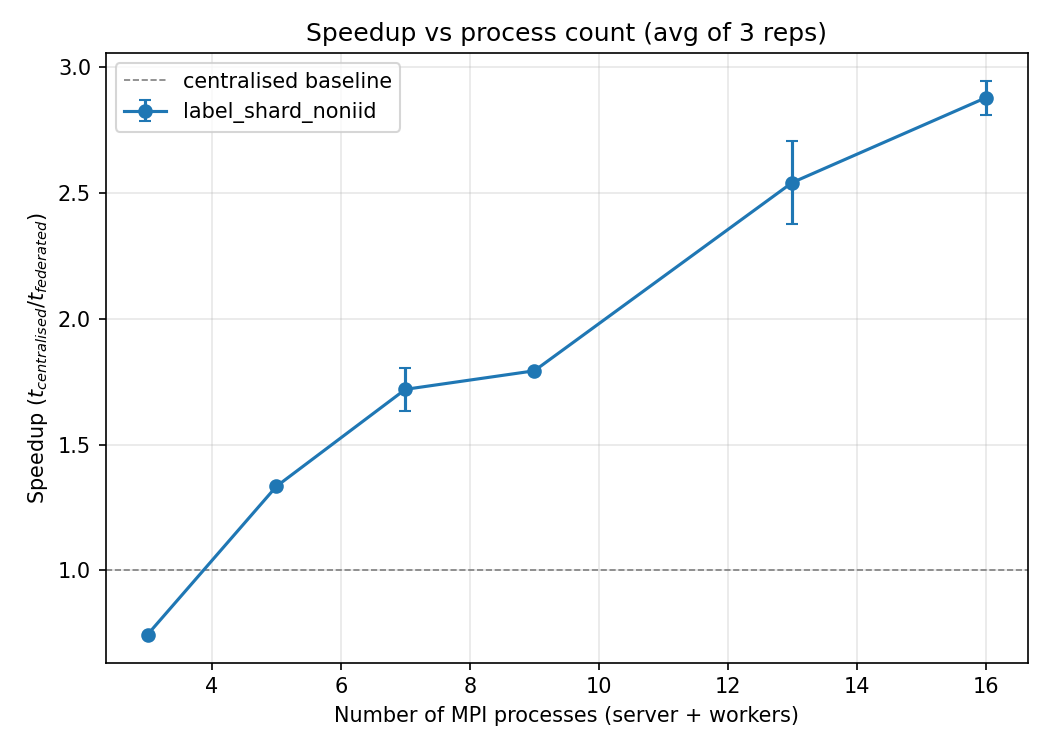
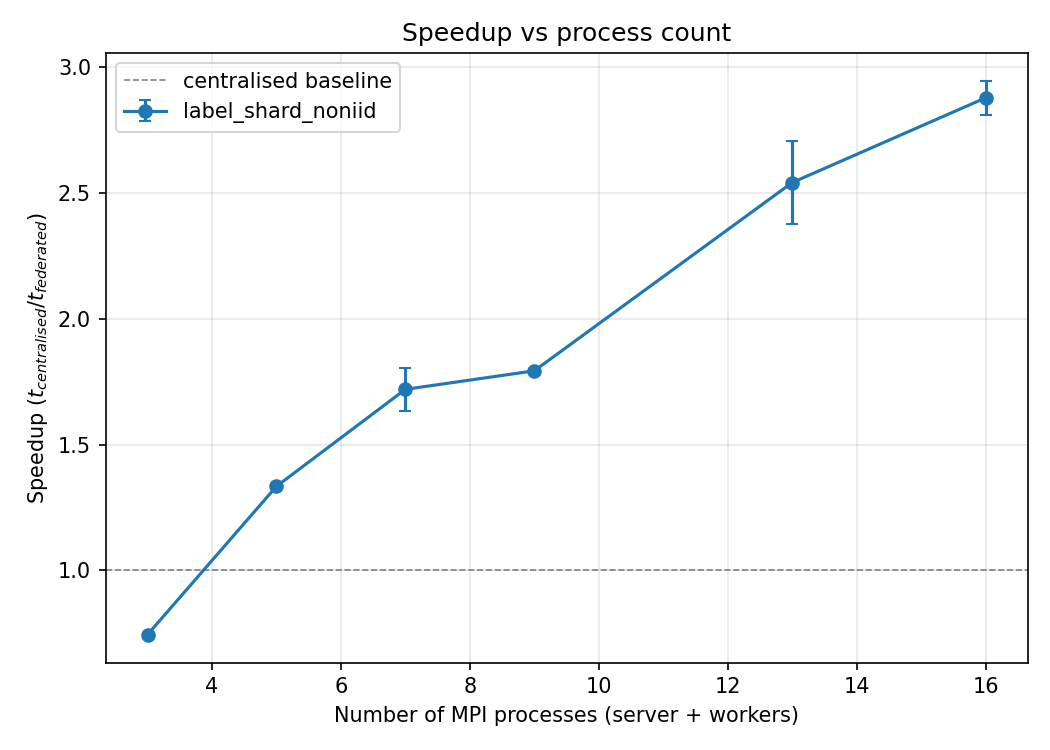
Updated grpahs

Changed region(s): [[0.2743, 0.0307, 0.7924, 0.0613]]

diff --git a/problem1/federated_clustering_mpi/bench/plot_one_node.py b/problem1/federated_clustering_mpi/bench/plot_one_node.py
@@ -152,6 +152,15 @@ def avg_curves(curves):
     return epochs, train_loss, train_acc, test_acc
 
 
+def dist_label(dist: str) -> str:
+    labels = {
+        "round_robin_iid": "IID round robin",
+        "label_shard_noniid": "label shard non-IID",
+        "label_shard_noniid_rotate_feature_skew": "label shard + rotation",
+    }
+    return labels.get(dist, dist)
+
+
 def closest_centralised(ts: datetime, centralised_rows):
     """Pick the centralised summary row with the nearest timestamp."""
     best = None
@@ -172,8 +181,18 @@ def main():
                     help="Read metrics/sweep_<id>/summary_*.csv.")
     ap.add_argument("--reps", type=int, default=3)
     ap.add_argument("--nps", type=int, nargs="+", required=True)
+    ap.add_argument("--curve-nps", type=int, nargs="+",
+                    help="Process counts to show on accuracy-curve plots. "
+                         "Defaults to all --nps values.")
     ap.add_argument("--dists", type=str, nargs="+", required=True)
     args = ap.parse_args()
+    args.nps = sorted(dict.fromkeys(args.nps))
+    curve_nps = sorted(dict.fromkeys(args.curve_nps or args.nps))
+    unknown_curve_nps = [np_count for np_count in curve_nps
+                         if np_count not in args.nps]
+    if unknown_curve_nps:
+        raise SystemExit(
+            f"--curve-nps values must also appear in --nps: {unknown_curve_nps}")
 
     project = args.project_dir
     sweep_dir = project / "metrics" / f"sweep_{args.sweep_id}"
@@ -225,6 +244,27 @@ def main():
         if c is not None:
             fed_curves[(dist, np_count)].append(c)
 
+    missing = [
+        (dist, np_count)
+        for dist in args.dists
+        for np_count in args.nps
+        if not speedups.get((dist, np_count))
+    ]
+    if missing:
+        formatted = ", ".join(f"{dist}/np={np_count}" for dist, np_count in missing)
+        print(f"[plot] warning: no one-node rows for {formatted}", file=sys.stderr)
+
+    missing_curves = [
+        (dist, np_count)
+        for dist in args.dists
+        for np_count in curve_nps
+        if not fed_curves.get((dist, np_count))
+    ]
+    if missing_curves:
+        formatted = ", ".join(
+            f"{dist}/np={np_count}" for dist, np_count in missing_curves)
+        print(f"[plot] warning: no accuracy curves for {formatted}", file=sys.stderr)
+
     # ----- Plot 1: speedup vs num processes -------------------------------
     fig, ax = plt.subplots(figsize=(7, 5))
     for dist in args.dists:
@@ -237,43 +277,44 @@ def main():
             ys.append(float(np.mean(vals)))
             errs.append(float(np.std(vals)))
         if xs:
-            ax.errorbar(xs, ys, yerr=errs, marker="o", capsize=3, label=dist)
+            ax.errorbar(xs, ys, yerr=errs, marker="o", capsize=3,
+                        label=dist_label(dist))
     ax.axhline(1.0, color="grey", linestyle="--", linewidth=0.8,
                label="centralised baseline")
     ax.set_xlabel("Number of MPI processes (server + workers)")
     ax.set_ylabel(r"Speedup ($t_{centralised} / t_{federated}$)")
-    ax.set_title(f"Speedup vs process count (avg of {args.reps} reps)")
+    ax.set_title("Speedup vs process count")
     ax.grid(True, alpha=0.3)
-    ax.legend()
+    ax.legend(fontsize=8)
     fig.tight_layout()
     fig.savefig(out / "speedup_vs_np.png", dpi=150)
     plt.close(fig)
 
     # ----- Plot 2: asymptotic test accuracy vs epoch ----------------------
-    fig, ax = plt.subplots(figsize=(8, 5))
+    fig, ax = plt.subplots(figsize=(11, 6))
     avg_c = avg_curves(central_curves)
     if avg_c is not None:
         ep, _, _, test_acc = avg_c
         ax.plot(ep, test_acc, label="centralised", linewidth=2, color="black")
     for dist in args.dists:
-        for np_count in sorted(args.nps):
+        for np_count in curve_nps:
             avg = avg_curves(fed_curves.get((dist, np_count), []))
             if avg is None:
                 continue
             ep, _, _, test_acc = avg
-            ax.plot(ep, test_acc, label=f"{dist} np={np_count}")
+            ax.plot(ep, test_acc, label=f"{dist_label(dist)} np={np_count}")
     ax.axhline(80.0, color="grey", linestyle=":", linewidth=0.8)
     ax.set_xlabel("Epoch / round")
     ax.set_ylabel("Test accuracy (%)")
-    ax.set_title(f"Asymptotic test accuracy (avg of {args.reps} reps)")
+    ax.set_title("Asymptotic test accuracy")
     ax.grid(True, alpha=0.3)
-    ax.legend(fontsize=8, loc="lower right")
-    fig.tight_layout()
+    ax.legend(fontsize=8, loc="center left", bbox_to_anchor=(1.02, 0.5))
+    fig.tight_layout(rect=[0, 0, 0.78, 1])
     fig.savefig(out / "asymptotic_accuracy.png", dpi=150)
     plt.close(fig)
 
     # ----- Plot 3: test vs training accuracy ------------------------------
-    fig, ax = plt.subplots(figsize=(8, 5))
+    fig, ax = plt.subplots(figsize=(11, 6))
     if avg_c is not None:
         ep, _, train_acc, test_acc = avg_c
         ax.plot(ep, train_acc, color="black", linestyle="--",
@@ -283,7 +324,7 @@ def main():
     colour_cycle = plt.rcParams["axes.prop_cycle"].by_key()["color"]
     ci = 0
     for dist in args.dists:
-        for np_count in sorted(args.nps):
+        for np_count in curve_nps:
             avg = avg_curves(fed_curves.get((dist, np_count), []))
             if avg is None:
                 continue
@@ -291,15 +332,15 @@ def main():
             colour = colour_cycle[ci % len(colour_cycle)]
             ci += 1
             ax.plot(ep, train_acc, color=colour, linestyle="--",
-                    label=f"{dist} np={np_count} train")
+                    label=f"{dist_label(dist)} np={np_count} train")
             ax.plot(ep, test_acc, color=colour, linestyle="-",
-                    label=f"{dist} np={np_count} test")
+                    label=f"{dist_label(dist)} np={np_count} test")
     ax.set_xlabel("Epoch / round")
     ax.set_ylabel("Accuracy (%)")
-    ax.set_title(f"Train vs test accuracy (avg of {args.reps} reps)")
+    ax.set_title("Train vs test accuracy")
     ax.grid(True, alpha=0.3)
-    ax.legend(fontsize=7, loc="lower right", ncol=2)
-    fig.tight_layout()
+    ax.legend(fontsize=7, loc="center left", bbox_to_anchor=(1.02, 0.5))
+    fig.tight_layout(rect=[0, 0, 0.74, 1])
     fig.savefig(out / "train_vs_test.png", dpi=150)
     plt.close(fig)
 

diff --git a/problem1/federated_clustering_mpi/bench/plot_multi_node.py b/problem1/federated_clustering_mpi/bench/plot_multi_node.py
@@ -315,9 +315,9 @@ def main():
         grouped_A[dist].sort()
     wrote_A = speedup_plot(
         out / "multinode_speedup_fixed_ppn.png",
-        f"Speedup vs nodes  (ppn={args.fixed_ppn}, avg of {args.reps} reps)",
+        f"Speedup vs number of nodes (fixed ppn={args.fixed_ppn})",
         grouped_A, args.dists, speedups_A,
-        x_label=f"Number of nodes (ppn={args.fixed_ppn}, ranks = ppn × nodes)",
+        x_label="Number of nodes",
     )
 
     # ----- Plot 2: Strategy B — speedup vs nodes at fixed total -------------
@@ -329,16 +329,16 @@ def main():
         grouped_B[dist].sort()
     wrote_B = speedup_plot(
         out / "multinode_speedup_fixed_total.png",
-        f"Speedup vs nodes  (total ranks={args.fixed_total}, avg of {args.reps} reps)",
+        f"Speedup vs number of nodes (fixed total={args.fixed_total} ranks)",
         grouped_B, args.dists, speedups_B,
-        x_label=f"Number of nodes (total ranks fixed at {args.fixed_total})",
+        x_label="Number of nodes",
     )
 
     # ----- Plot 3: test accuracy curves, side-by-side per strategy ----------
     fig, axes = plt.subplots(1, 2, figsize=(13, 5), sharey=True)
     for ax, curves, label_prefix, title in [
-        (axes[0], curves_A, "A", f"Strategy A: fixed ppn={args.fixed_ppn}"),
-        (axes[1], curves_B, "B", f"Strategy B: fixed total={args.fixed_total}"),
+        (axes[0], curves_A, "A", f"Test accuracy (fixed ppn={args.fixed_ppn})"),
+        (axes[1], curves_B, "B", f"Test accuracy (fixed total={args.fixed_total} ranks)"),
     ]:
         for (dist, nodes) in sorted(curves.keys(), key=lambda k: (k[0], k[1])):
             avg = avg_curves(curves[(dist, nodes)])
@@ -352,7 +352,7 @@ def main():
         ax.grid(True, alpha=0.3)
         ax.legend(fontsize=8, loc="lower right")
     axes[0].set_ylabel("Test accuracy (%)")
-    fig.suptitle(f"Multi-node convergence (avg of {args.reps} reps)")
+    fig.suptitle("Multi-node convergence")
     fig.tight_layout()
     fig.savefig(out / "multinode_test_accuracy.png", dpi=150)
     plt.close(fig)
